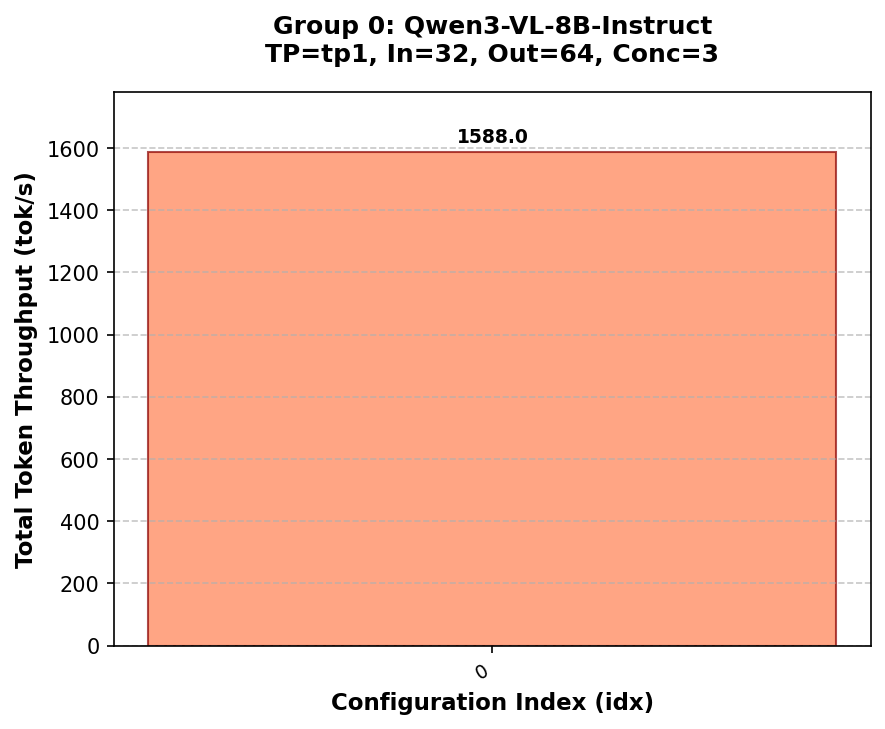
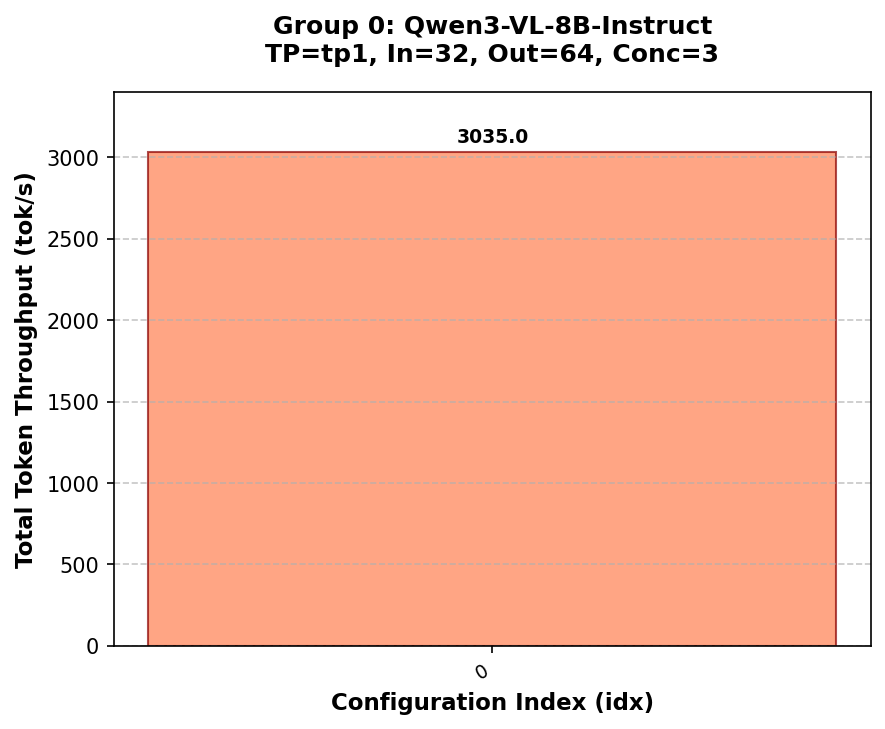
three method runpass

diff --git a/reports/benchmark_report_20260413_075431.md b/reports/benchmark_report_20260413_075431.md
@@ -1,0 +1,92 @@
+# Benchmark Results Report
+
+**Generated:** 2026-04-13 07:54:31
+
+## SLO Criteria
+
+- No SLO thresholds applied
+- Data Policy: remove_min_max
+
+## Group Results
+
+### Group 0
+
+| Attribute | Value |
+|-----------|-------|
+| **Model** | Qwen3-VL-8B-Instruct |
+| **Deploy Method** | tp1 |
+| **Template ID** | 1 |
+| **Input Length** | 32 |
+| **Output Length** | 64 |
+| **Max Concurrency** | 3 |
+| **Image Size/Count** | 448x448/1 |
+
+![Group 0 Plot](group_0_results.png)
+
+#### Results
+
+| idx | Throughput (tok/s) | TTFT (ms) | TPOT (ms) |
+| --- | --- | --- | --- |
+| 0 | 3035.0 | 0.0 | 24.2 |
+
+#### Configuration Details
+
+| idx | Env Opt | Server Args Opt | Additional Options |
+| --- | --- | --- | --- |
+| 0 | (none) | (none) |  |
+
+### Group 1
+
+| Attribute | Value |
+|-----------|-------|
+| **Model** | Qwen3.5-9B |
+| **Deploy Method** | tp1 |
+| **Template ID** | 2 |
+| **Input Length** | 32 |
+| **Output Length** | 64 |
+| **Max Concurrency** | 3 |
+| **Image Size/Count** | 448x448/1 |
+
+![Group 1 Plot](group_1_results.png)
+
+#### Results
+
+| idx | Throughput (tok/s) | TTFT (ms) | TPOT (ms) |
+| --- | --- | --- | --- |
+| 0 | 3035.0 | 0.0 | 24.2 |
+| 1 | 3035.0 | 0.0 | 24.2 |
+
+#### Configuration Details
+
+| idx | Env Opt | Server Args Opt | Additional Options |
+| --- | --- | --- | --- |
+| 0 | (none) | (none) | --context-length 262144 --reasoning-parser qwen3 |
+| 1 | (none) | (none) | --context-length 262144 --reasoning-parser qwen3 |
+
+### Group 2
+
+| Attribute | Value |
+|-----------|-------|
+| **Model** | Qwen3.5-9B |
+| **Deploy Method** | tp1 |
+| **Template ID** | 2 |
+| **Input Length** | 64 |
+| **Output Length** | 128 |
+| **Max Concurrency** | 3 |
+| **Image Size/Count** | 448x448/1 |
+
+![Group 2 Plot](group_2_results.png)
+
+#### Results
+
+| idx | Throughput (tok/s) | TTFT (ms) | TPOT (ms) |
+| --- | --- | --- | --- |
+| 0 | 3035.0 | 0.0 | 24.2 |
+| 1 | 3035.0 | 0.0 | 24.2 |
+
+#### Configuration Details
+
+| idx | Env Opt | Server Args Opt | Additional Options |
+| --- | --- | --- | --- |
+| 0 | (none) | (none) | --context-length 262144 --reasoning-parser qwen3 |
+| 1 | (none) | (none) | --context-length 262144 --reasoning-parser qwen3 |

diff --git a/reports/benchmark_report_20260413_081312.md b/reports/benchmark_report_20260413_081312.md
@@ -1,0 +1,92 @@
+# Benchmark Results Report
+
+**Generated:** 2026-04-13 08:13:13
+
+## SLO Criteria
+
+- No SLO thresholds applied
+- Data Policy: remove_min_max
+
+## Group Results
+
+### Group 0
+
+| Attribute | Value |
+|-----------|-------|
+| **Model** | Qwen3-VL-8B-Instruct |
+| **Deploy Method** | tp1 |
+| **Template ID** | 1 |
+| **Input Length** | 32 |
+| **Output Length** | 64 |
+| **Max Concurrency** | 3 |
+| **Image Size/Count** | 448x448/1 |
+
+![Group 0 Plot](group_0_results.png)
+
+#### Results
+
+| idx | Throughput (tok/s) | TTFT (ms) | TPOT (ms) |
+| --- | --- | --- | --- |
+| 0 | 3035.0 | 0.0 | 24.2 |
+
+#### Configuration Details
+
+| idx | Env Opt | Server Args Opt | Additional Options |
+| --- | --- | --- | --- |
+| 0 | (none) | (none) |  |
+
+### Group 1
+
+| Attribute | Value |
+|-----------|-------|
+| **Model** | Qwen3.5-9B |
+| **Deploy Method** | tp1 |
+| **Template ID** | 2 |
+| **Input Length** | 32 |
+| **Output Length** | 64 |
+| **Max Concurrency** | 3 |
+| **Image Size/Count** | 448x448/1 |
+
+![Group 1 Plot](group_1_results.png)
+
+#### Results
+
+| idx | Throughput (tok/s) | TTFT (ms) | TPOT (ms) |
+| --- | --- | --- | --- |
+| 0 | 3035.0 | 0.0 | 24.2 |
+| 1 | 3035.0 | 0.0 | 24.2 |
+
+#### Configuration Details
+
+| idx | Env Opt | Server Args Opt | Additional Options |
+| --- | --- | --- | --- |
+| 0 | (none) | (none) | --context-length 262144 --reasoning-parser qwen3 |
+| 1 | (none) | (none) | --context-length 262144 --reasoning-parser qwen3 |
+
+### Group 2
+
+| Attribute | Value |
+|-----------|-------|
+| **Model** | Qwen3.5-9B |
+| **Deploy Method** | tp1 |
+| **Template ID** | 2 |
+| **Input Length** | 64 |
+| **Output Length** | 128 |
+| **Max Concurrency** | 3 |
+| **Image Size/Count** | 448x448/1 |
+
+![Group 2 Plot](group_2_results.png)
+
+#### Results
+
+| idx | Throughput (tok/s) | TTFT (ms) | TPOT (ms) |
+| --- | --- | --- | --- |
+| 0 | 3035.0 | 0.0 | 24.2 |
+| 1 | 3035.0 | 0.0 | 24.2 |
+
+#### Configuration Details
+
+| idx | Env Opt | Server Args Opt | Additional Options |
+| --- | --- | --- | --- |
+| 0 | (none) | (none) | --context-length 262144 --reasoning-parser qwen3 |
+| 1 | (none) | (none) | --context-length 262144 --reasoning-parser qwen3 |

diff --git a/reports/benchmark_report_20260413_081652.md b/reports/benchmark_report_20260413_081652.md
@@ -1,0 +1,92 @@
+# Benchmark Results Report
+
+**Generated:** 2026-04-13 08:16:52
+
+## SLO Criteria
+
+- No SLO thresholds applied
+- Data Policy: remove_min_max
+
+## Group Results
+
+### Group 0
+
+| Attribute | Value |
+|-----------|-------|
+| **Model** | Qwen3-VL-8B-Instruct |
+| **Deploy Method** | tp1 |
+| **Template ID** | 1 |
+| **Input Length** | 32 |
+| **Output Length** | 64 |
+| **Max Concurrency** | 3 |
+| **Image Size/Count** | 448x448/1 |
+
+![Group 0 Plot](group_0_results.png)
+
+#### Results
+
+| idx | Throughput (tok/s) | TTFT (ms) | TPOT (ms) |
+| --- | --- | --- | --- |
+| 0 | 3035.0 | 0.0 | 24.2 |
+
+#### Configuration Details
+
+| idx | Env Opt | Server Args Opt | Additional Options |
+| --- | --- | --- | --- |
+| 0 | (none) | (none) |  |
+
+### Group 1
+
+| Attribute | Value |
+|-----------|-------|
+| **Model** | Qwen3.5-9B |
+| **Deploy Method** | tp1 |
+| **Template ID** | 2 |
+| **Input Length** | 32 |
+| **Output Length** | 64 |
+| **Max Concurrency** | 3 |
+| **Image Size/Count** | 448x448/1 |
+
+![Group 1 Plot](group_1_results.png)
+
+#### Results
+
+| idx | Throughput (tok/s) | TTFT (ms) | TPOT (ms) |
+| --- | --- | --- | --- |
+| 0 | 3035.0 | 0.0 | 24.2 |
+| 1 | 3035.0 | 0.0 | 24.2 |
+
+#### Configuration Details
+
+| idx | Env Opt | Server Args Opt | Additional Options |
+| --- | --- | --- | --- |
+| 0 | (none) | (none) | --context-length 262144 --reasoning-parser qwen3 |
+| 1 | (none) | (none) | --context-length 262144 --reasoning-parser qwen3 |
+
+### Group 2
+
+| Attribute | Value |
+|-----------|-------|
+| **Model** | Qwen3.5-9B |
+| **Deploy Method** | tp1 |
+| **Template ID** | 2 |
+| **Input Length** | 64 |
+| **Output Length** | 128 |
+| **Max Concurrency** | 3 |
+| **Image Size/Count** | 448x448/1 |
+
+![Group 2 Plot](group_2_results.png)
+
+#### Results
+
+| idx | Throughput (tok/s) | TTFT (ms) | TPOT (ms) |
+| --- | --- | --- | --- |
+| 0 | 3035.0 | 0.0 | 24.2 |
+| 1 | 3035.0 | 0.0 | 24.2 |
+
+#### Configuration Details
+
+| idx | Env Opt | Server Args Opt | Additional Options |
+| --- | --- | --- | --- |
+| 0 | (none) | (none) | --context-length 262144 --reasoning-parser qwen3 |
+| 1 | (none) | (none) | --context-length 262144 --reasoning-parser qwen3 |
